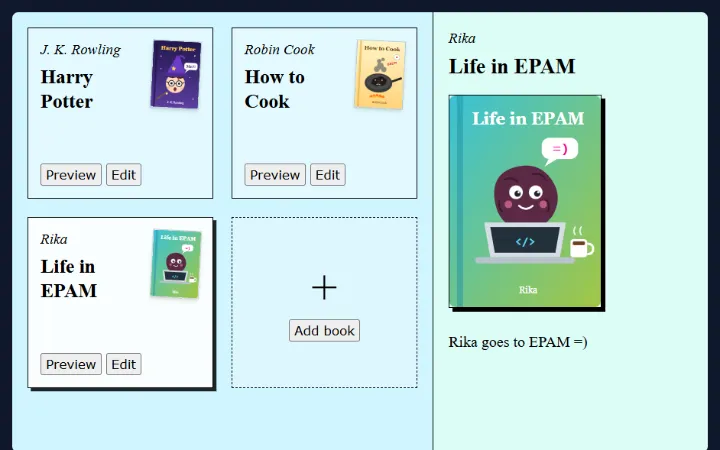
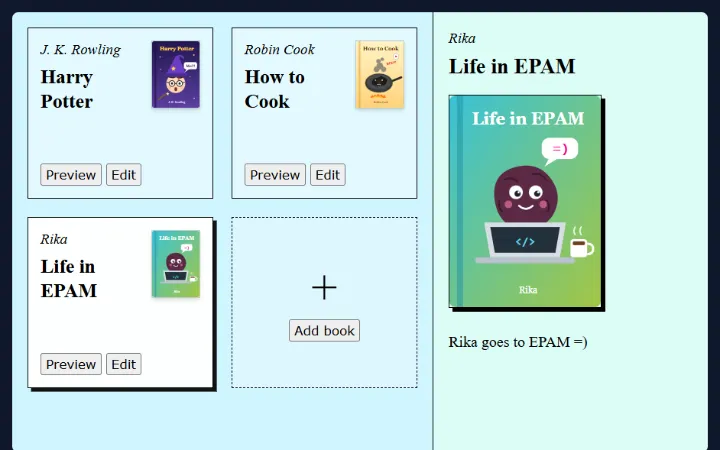
Stand the HW15 card covers straight

diff --git a/src/homework/hw15-bom-books/Books.tsx b/src/homework/hw15-bom-books/Books.tsx
@@ -126,7 +126,7 @@ function BookList({ books }: { books: Book[] }) {
             <Cover
               book={book}
               alt=""
-              className="absolute top-4 right-4 w-16 rotate-3 border border-black/20 shadow-md"
+              className="absolute top-4 right-4 w-16 border border-black/20 shadow-md"
             />
             <p className="pr-20 text-[1.2rem] leading-tight italic">{book.author}</p>
             <h3 className="mt-2 pr-20 text-[1.6rem] leading-tight font-bold">{book.title}</h3>
